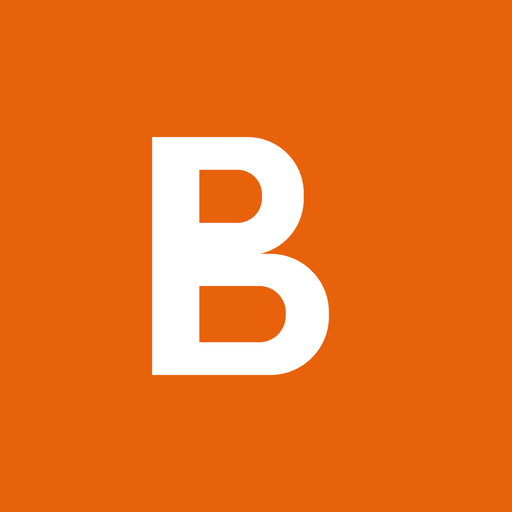
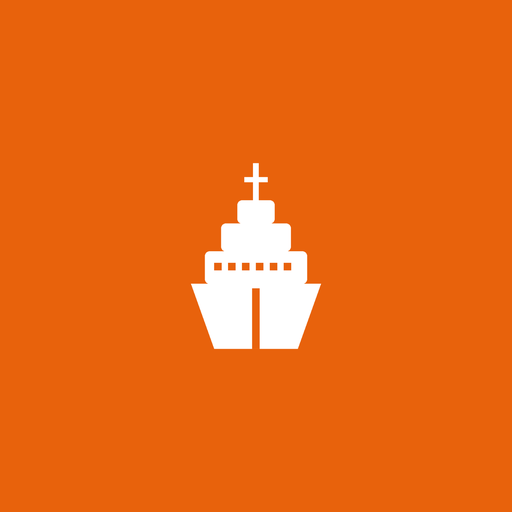
Put the Ship Happens mark on the home screen, not a Blockeris B
The installed icon was a geometric B. The app it opens is called Ship Happens
and its header draws a ship, so a judge who installed it from the deck saw one
mark on the home screen and a different one inside.

The B predates the brand: the icons were generated in 4d5baf9, "Make the review
screen installable on a phone", before the Ship Happens name and its mark
existed. Nobody went back.

glyph_ship traces the same shapes the page draws inline in index.html - mast,
funnel house, two decks, a row of windows, trapezoid hull - in the SVG's own
64-unit box. Redrawn with Pillow primitives rather than rasterised: they are
rectangles and one polygon, and an SVG renderer would be a dependency for a
script that runs once and whose output is committed.

A favicon needs its own mark. At 32px the windows, the yard and the keel merge
into a white blob - the full version stops reading at about 64px - so
glyph_ship_small keeps the three shapes that still carry the silhouette and
fills 80% of the tile rather than the 58% the maskable safe circle demands of
the others.

Pillow stays out of requirements.txt. This is a one-off generator, the five PNGs
are committed, and nobody should install an image library to run or judge this.

An already-installed phone keeps the old icon: Android bakes it into the WebAPK
at install time. Uninstall and reinstall to see it.

Changed region(s): [[0.2812, 0.25, 0.6562, 0.75]]

diff --git a/docs/MakeIcons.py b/docs/MakeIcons.py
@@ -3,29 +3,57 @@ from PIL import Image, ImageDraw
 ORANGE = (232, 98, 12)      # --accent from frontend/index.html
 WHITE  = (255, 255, 255)
 SS     = 4                  # supersample factor
+SMALL_ICON_PX = 48          # at or below this the full mark stops reading
 
-def glyph_B(size):
-    """A geometric B drawn from rounded rectangles — no font dependency.
-    Lower bowl is wider than the upper one, the way a drawn B always is."""
+def glyph_ship(size):
+    """The Ship Happens mark: the same ship the app draws in its header.
+
+    Traced from the inline SVG in frontend/index.html, which works in a 64-unit
+    box — mast, funnel, two deck houses, a row of windows and a trapezoid hull.
+    Redrawn here rather than rasterised because the shapes are all rectangles
+    and one polygon, and pulling in an SVG renderer for that would be a
+    dependency for a script that runs once.
+
+    Was a Blockeris "B". The app is called Ship Happens, and a judge who
+    installs it should recognise the thing they were shown.
+    """
     g = Image.new("RGBA", (size, size), (0, 0, 0, 0))
     d = ImageDraw.Draw(g)
-    u = size / 1000.0
-    def R(x0, y0, x1, y1, r, corners, fill):
-        a, b, c, e = x0*u, y0*u, x1*u, y1*u
-        # Pillow rejects a radius over half the shorter side; clamp in pixel space
-        rad = min(r*u, (c-a)/2 - 0.51, (e-b)/2 - 0.51)
-        if rad <= 0:
-            d.rectangle([a, b, c, e], fill=fill)
-            return
-        d.rounded_rectangle([a, b, c, e], radius=rad, fill=fill, corners=corners)
-    # stem + both bowls, all white, merged into one shape
-    R(150, 100, 310, 900,  20, (True, False, False, True), WHITE)   # stem
-    R(150, 100, 660, 497, 188, (False, True, True, False), WHITE)   # upper bowl
-    R(150, 493, 745, 900, 196, (False, True, True, False), WHITE)   # lower bowl
-    # counters punched back out in the tile colour
-    R(310, 210, 520, 388,  82, (False, True, True, False), ORANGE)  # upper counter
-    R(310, 602, 600, 790,  88, (False, True, True, False), ORANGE)  # lower counter
+    u = size / 64.0                       # the SVG's own unit
+    def box(x, y, w, h, r=1):
+        d.rounded_rectangle([x * u, y * u, (x + w) * u, (y + h) * u],
+                            radius=max(1, int(r * u)), fill=WHITE)
+
+    d.rectangle([31.4 * u, 12 * u, 32.6 * u, 20 * u], fill=WHITE)   # mast
+    d.rectangle([29.5 * u, 15 * u, 34.5 * u, 16.1 * u], fill=WHITE)  # yard
+    box(28, 20, 8, 5)                                                # funnel house
+    box(24.5, 25, 15, 6)                                             # upper deck
+    box(21, 31, 22, 7)                                               # lower deck
+    for wx in (23, 26, 29, 32, 35, 38):                              # windows
+        d.rectangle([wx * u, 33.5 * u, (wx + 1.6) * u, 35.1 * u], fill=ORANGE)
+    d.polygon([(18 * u, 38 * u), (46 * u, 38 * u),                   # hull
+               (41 * u, 52 * u), (23 * u, 52 * u)], fill=WHITE)
+    d.rectangle([31.2 * u, 39 * u, 32.8 * u, 52 * u], fill=ORANGE)   # keel
     return g
+
+
+def glyph_ship_small(size):
+    """The same ship with the detail removed, for a favicon.
+
+    At 32px the windows, the yard and the keel merge into a white blob - the
+    full mark stops reading at about 64px. This keeps the three shapes that
+    still carry the silhouette: hull, one deck house, mast.
+    """
+    g = Image.new("RGBA", (size, size), (0, 0, 0, 0))
+    d = ImageDraw.Draw(g)
+    u = size / 64.0
+    d.rectangle([30.6 * u, 12 * u, 33.4 * u, 22 * u], fill=WHITE)     # mast, thicker
+    d.rounded_rectangle([22 * u, 26 * u, 42 * u, 38 * u],             # one deck house
+                        radius=max(1, int(2 * u)), fill=WHITE)
+    d.polygon([(15 * u, 38 * u), (49 * u, 38 * u),                    # hull, wider
+               (43 * u, 54 * u), (21 * u, 54 * u)], fill=WHITE)
+    return g
+
 
 def tile(px, radius_frac, bleed):
     """bleed=True -> full-bleed square for maskable/apple. False -> rounded tile."""
@@ -36,10 +64,13 @@ def tile(px, radius_frac, bleed):
         d.rectangle([0, 0, big, big], fill=ORANGE)
     else:
         d.rounded_rectangle([0, 0, big-1, big-1], radius=int(big*radius_frac), fill=ORANGE)
-    # 58% of the tile keeps the glyph inside the maskable safe circle (inner 80%)
+    # 58% of the tile keeps the glyph inside the maskable safe circle (inner 80%).
+    # A favicon has no safe circle to respect and needs every pixel it can get,
+    # so it takes the simplified mark at a larger fraction.
+    draw_glyph, fraction = (glyph_ship_small, 0.80) if px <= SMALL_ICON_PX else (glyph_ship, 0.58)
+    gs = int(big * fraction)
     # Always draw the glyph large, then scale down — small geometry breaks Pillow
-    gs = int(big * 0.58)
-    g = glyph_B(1024).resize((gs, gs), Image.LANCZOS)
+    g = draw_glyph(1024).resize((gs, gs), Image.LANCZOS)
     img.alpha_composite(g, ((big-gs)//2, (big-gs)//2))
     return img.resize((px, px), Image.LANCZOS)
 
